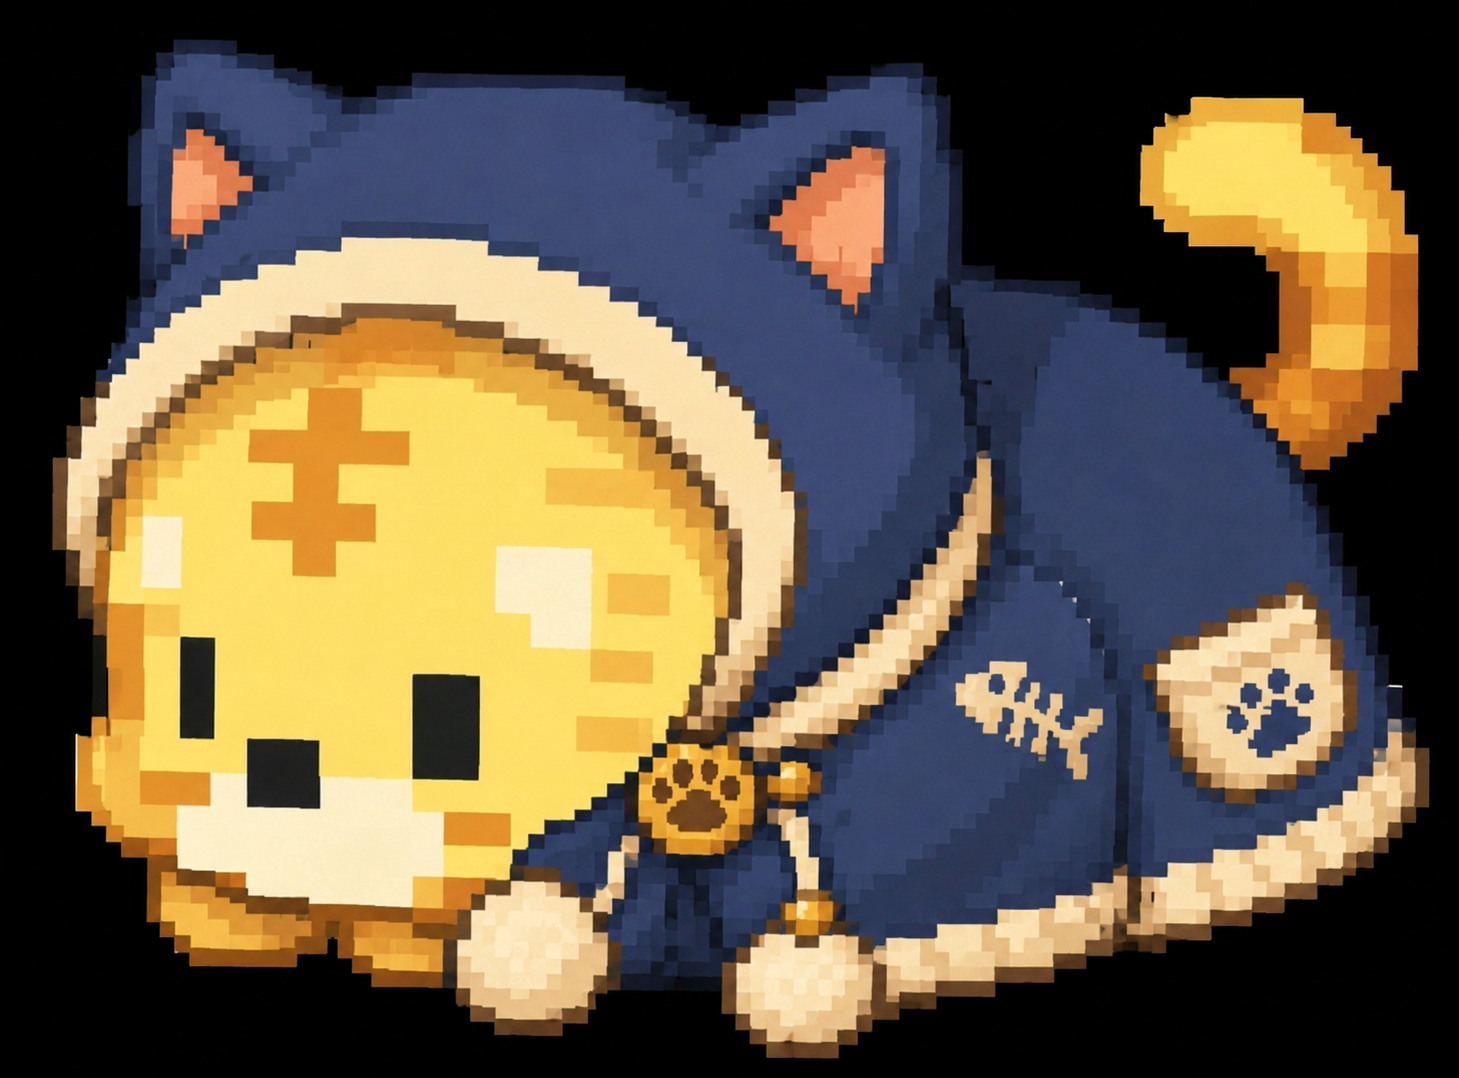
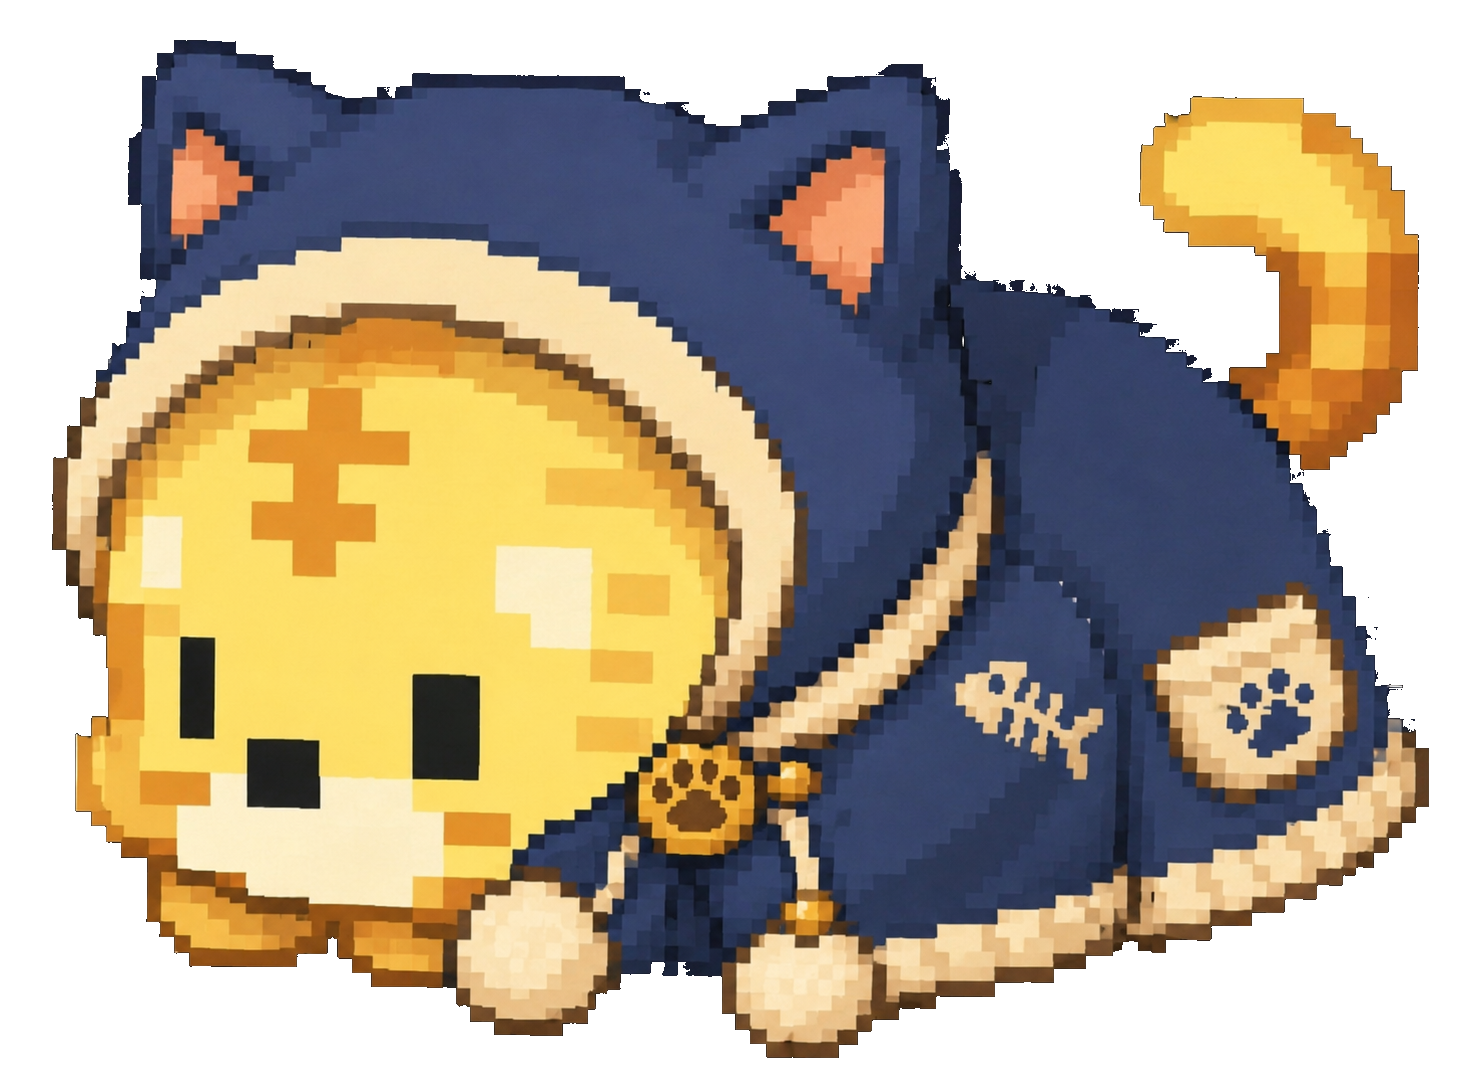
Add files via upload

diff --git a/script.js b/script.js
@@ -257,7 +257,7 @@ const Cat = {
     // ---- Roupa: troca o sprite acordado/dormindo conforme a roupa vestida ----
     // Sem roupa equipada, o sprite "original" é o gatinho (menino/menina) escolhido na adoção.
     if(!state.equippedOutfit && typeof ORIGINAL_OUTFIT !== 'undefined'){
-      ORIGINAL_OUTFIT.catSprite = state.gender === 'girl' ? 'Girl-cat.png' : 'Boy-cat.jpg';
+      ORIGINAL_OUTFIT.catSprite = state.gender === 'girl' ? 'Girl-cat.png' : 'Boy-cat.png';
     }
     const outfit = (typeof Shop !== 'undefined') ? Shop.getOutfit(state.equippedOutfit) : null;
     if(outfit){

diff --git a/index.html b/index.html
@@ -23,7 +23,7 @@
 
     <div id="gender-select" class="gender-select">
       <button type="button" class="gender-option" data-gender="boy">
-        <img src="Boy-cat.jpg" alt="Gatinho macho">
+        <img src="Boy-cat.png" alt="Gatinho macho">
         <span>Menino</span>
       </button>
       <button type="button" class="gender-option" data-gender="girl">
